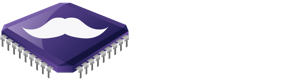
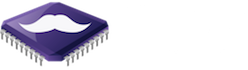
Reformatting Home and Fluigi Pages

diff --git a/rcwolf_GUI_5_20/sketch.js b/rcwolf_GUI_5_20/sketch.js
@@ -6,8 +6,8 @@ function setup() {
   home_background_image = loadImage("resources/background_img.png");
   
   //Home Page
-  fluigi_logo= loadImage("resources/fluigi.png");
-  fluigi_highlighted_logo= loadImage("resources/fluigi_highlighted.png");
+  fluigi_highlighted_logo = loadImage("resources/fluigi.png");
+  fluigi_logo= loadImage("resources/fluigi_highlighted.png");
   help= loadImage("resources/help.png");
   about= loadImage("resources/about.png");
   help_highlighted= loadImage("resources/help_highlighted.png");
@@ -36,36 +36,48 @@ function draw() {
   if (gui_state == 'home'){
     background(home_background_image);
 
+    // scale factor for help and about buttons
+    button_scale = 1 - 180/height;
+    fluigi_scale = 1 - 150/height;
+
+
+
+    help_X = (width/100)* 75;
+    help_Y = (height/100)*68;
     
     //HELP Button
-    if (isOver((width/100)* 75 , (height/100)*68, width/9, height/13))
+    if (isOver(help_X, help_Y, 301*button_scale, 87*button_scale))
       {
-        image(help_highlighted, (width/100)* 75 , (height/100)*68, width/9, height/13);
+        image(help_highlighted, help_X, help_Y, 301*button_scale, 87*button_scale);
       }
     else{
-      image(help, (width/100)* 75 , (height/100)*68, width/9, height/13);
+      image(help, help_X, help_Y, 301*button_scale, 87*button_scale);
     }
+
+
     
     //ABOUT Button
-    if (isOver ((width/100)*75 , (height/100)*77, width/9,height/13))
+    if (isOver (help_X , (help_Y + 87*button_scale + 15), 301*button_scale, 87*button_scale))
       {
-        image(about_highlighted, (width/100)* 75 , (height/100)*77, width/9, height/13);
+        image(about_highlighted, help_X, (help_Y + 87*button_scale + 15), 301*button_scale, 87*button_scale);
       }
     else{
-        image(about, (width/100)*75 , (height/100)*77, width/9,height/13);
+        image(about, help_X , (help_Y + 87*button_scale + 15), 301*button_scale, 87*button_scale);
       }
+
+
     
     // define the position of the logo with respect to the size of the board
-    fluigi_logo_X = ( (width/2)-(width/5) );
-    fluigi_logo_Y = ( (height/2)-(height/8) );
+    fluigi_logo_X = ( (width/2) - (508*fluigi_scale/2) );
+    fluigi_logo_Y = ( (height/2) - (height/8) );
     
     // if mouse is hovering over fluigi logo display hollow button, resopond to click
-    if (isOver(fluigi_logo_X, fluigi_logo_Y, fluigi_logo.width, fluigi_logo.height) ) {
-      image(fluigi_highlighted_logo, fluigi_logo_X , fluigi_logo_Y, width/3.3, height/6.5);
+    if (isOver(fluigi_logo_X, fluigi_logo_Y, 508*fluigi_scale, 127*fluigi_scale) ) {
+      image(fluigi_highlighted_logo, fluigi_logo_X , fluigi_logo_Y, 508*fluigi_scale, 127*fluigi_scale);
     }
     // otherwise display filled logo
     else {
-      image(fluigi_logo, fluigi_logo_X , fluigi_logo_Y, width/3.3, height/6.5);
+      image(fluigi_logo, fluigi_logo_X , fluigi_logo_Y, 508*fluigi_scale, 127*fluigi_scale);
     }
   }
   
@@ -99,20 +111,24 @@ function draw() {
     gui_state= 'fluigi';
 
 
-    // to be set when we determine if the device is connected or not
-    disconnected_path = "resources/not_connected.png";
-    connected_path = "resources/connected.png";
+
+
+    // to be set when device is connected
+    is_connected = false;
+
+    if (is_connected) connectivity = "resources/connected.png";
+    else connectivity = "resources/not_connected.png";
 
 
     webix.ui({
     view:"toolbar",
     id:"FluigiToolbar",
     cols:[
-        { view:"button", type:"imageTop", id:"fluigi_logo_static", image:"resources/fluigi_transparent.png", width:360, height:95 },
-        { view:"button", type:"imageTop", image:"resources/home.png", width:220, height:90, click: home_button_pressed},
+        { view:"button", type:"imageTop", id:"fluigi_logo_static", image:"resources/fluigi_transparent.png", width:360, height:80 },
+        { view:"button", type:"imageTop", image:"resources/home.png", width:210, height:80, click: home_button_pressed},
         {},
-        { view:"button", type:"imageTop", id:"device_indicator_static", image:connected_path, width:85, height:85 },
-        { view:"button", type:"imageTop", image:"resources/settings.gif", width:85, height:85, click: settings_button_pressed}]
+        { view:"button", type:"imageTop", id:"device_indicator_static", image:connectivity, width:85, height:80 },
+        { view:"button", type:"imageTop", image:"resources/settings.png", width:85, height:80, click: settings_button_pressed}]
     }).show();
 
     $$("fluigi_logo_static").disable();
@@ -129,7 +145,7 @@ function draw() {
 
   function help_button_pressed()
   {
-    //gui_state= 'help';
+
     
     var help_window_popup = webix.ui({
       view:"window",
@@ -160,27 +176,13 @@ function draw() {
     gui_state= 'home'; 
   }
   
-  // function settings_button_pressed()
-  // {
-  //   gui_state = 'settings';
-    
-  // }
+
   function settings_button_pressed()
   {
   if( settings_toggle == 'settings_is_closed'){
     //gui_state = 'settings';
   settings_toggle = 'settings_is_open';
     
-/*  var pumpTable = new webix.ui({
-    view:"datatable",
-    footer:true,
-    editable:true,
-    //autoconfig:true,
-    columns:[
-        {id:"Pump number", header:["Pump Number"]},
-        {id:"Open state", header:["Open State"]},
-        {id:"Closed state", header:["Closed State"]}
-        ]}) */
   
   var settings_window_popup = webix.ui({
       view:"window",
